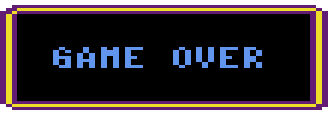
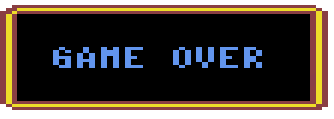
changing background at every level up added

Changed region(s): [[0.0, 0.0252, 0.988, 0.9328]]

diff --git a/js/gameField.js b/js/gameField.js
@@ -11,7 +11,8 @@ var gameField = {
     brokenViruses: 0, // count broken viruses in whole game
     startGame(){
         document.getElementById("main-page").style.display="none";
-        document.body.style.backgroundImage="url('gfx/gamepatterns/game-pattern-1.png')";
+        document.body.style.backgroundColor= "#9400ce";
+        document.getElementById("playground").style.backgroundColor = "#9400ce";
         this.initiate();
         gameInterface.initiate();
         //checks which keys were pressed and changes the position of the pill
@@ -66,7 +67,9 @@ var gameField = {
             //deletes stage complited image
             document.body.removeChild(stageComplitedImage);
             //set new pattern on background
-            document.body.style.backgroundImage=`url('gfx/gamepatterns/game-pattern-${gameField.level}.png')`;
+            let newBackgroundColor  = "#"+Math.floor(Math.random()*16777215).toString(16);
+            document.body.style.backgroundColor= newBackgroundColor;
+            document.getElementById("playground").style.backgroundColor = newBackgroundColor;
             //every level there is one more virus on map
             config.virusAmount++;
             //changes virus amount and level on table

diff --git a/style.css b/style.css
@@ -10,7 +10,8 @@ body{
     justify-content: center;
     align-items: center;
     flex-direction: column;
-    background-image: url('gfx/gamepatterns/background-pattern.png');
+    background-image: url('gfx/interface-elements/background-pattern.png');
+    background-color: green;
     background-repeat: repeat;
     background-size: 44px;
     background-position-x: center;
